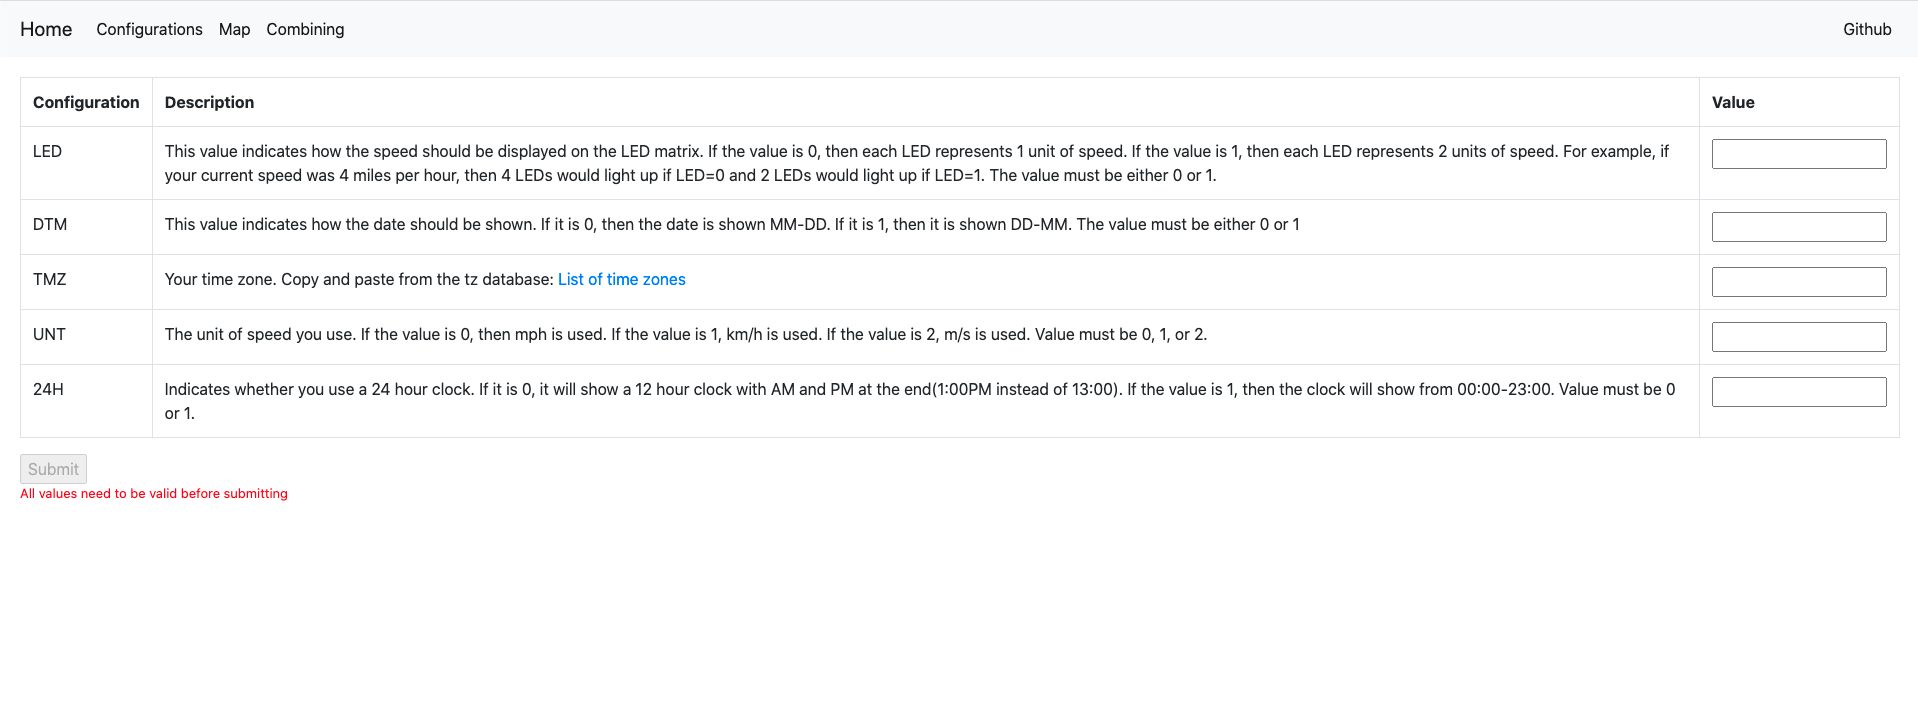
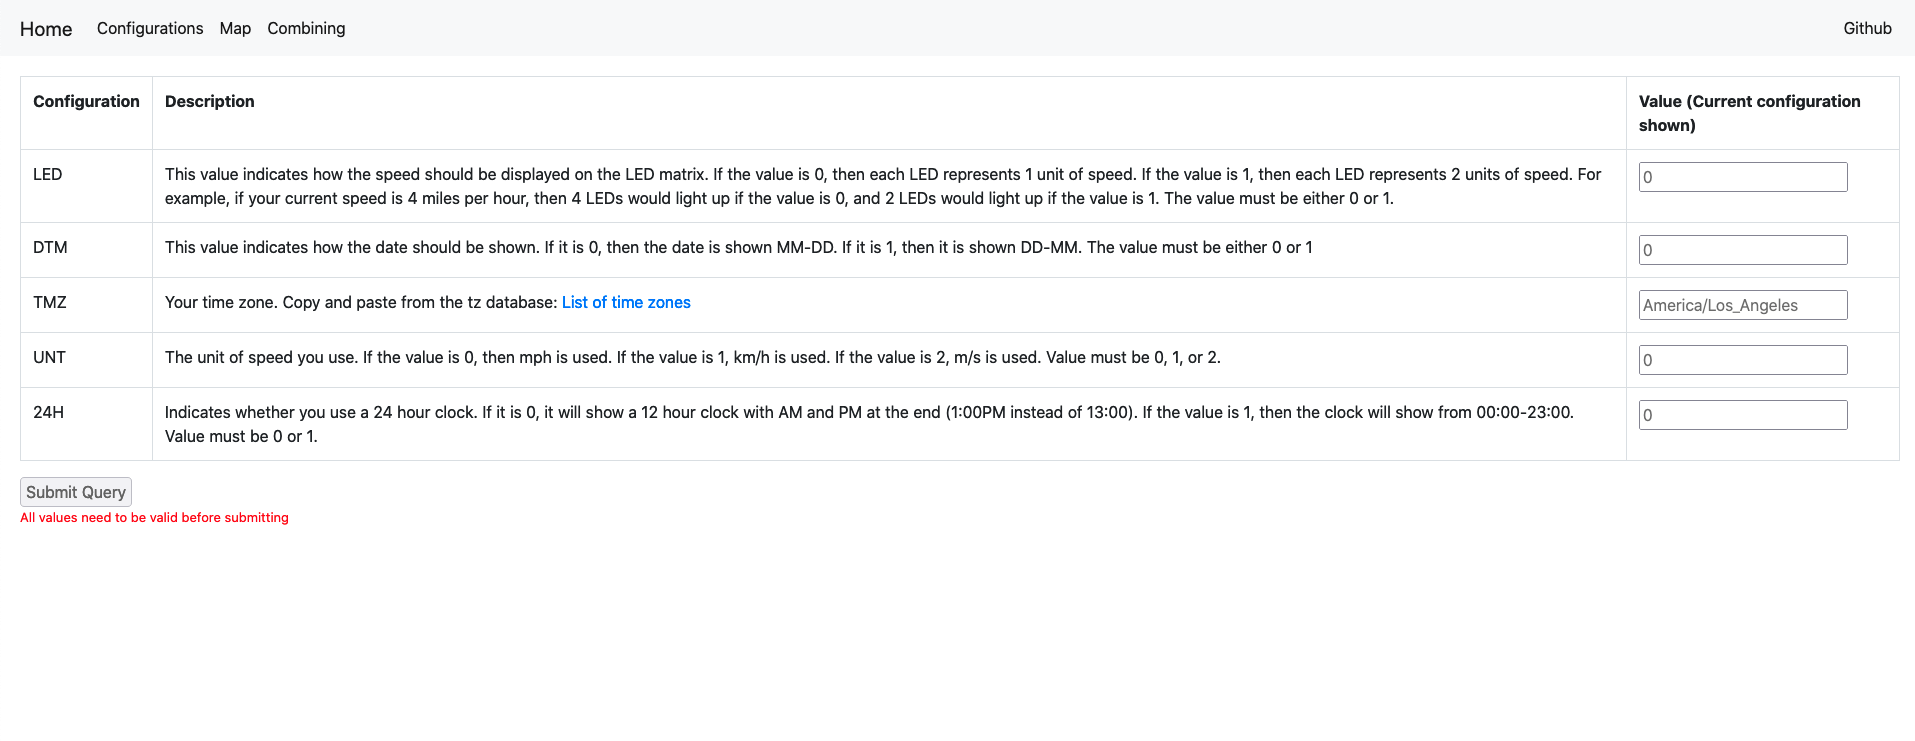
docs of placeholder

diff --git a/docs/pages/usage.md b/docs/pages/usage.md
@@ -65,7 +65,7 @@ There are 3 options: the configuration page, the map page, and the combining pag
 The configuration page should look like this:
 ![cfg_page](/docs/img/bd_web_cfg.png)
 
-It is a table showing all the configurations, what they mean, and what value you have to enter. You have to enter that value into the text box on the right column of the table. 
+There is a table showing all the configurations, what they mean, and what value you have to enter. You have to enter your value into the text box on the right column of the table. The placeholder in each input box shows your current configuration.
 
 For the time zone, you should copy and paste from the list in the link rather than typing it out as it is case sensitive and you have to type it out exactly like it is in the table.
 
